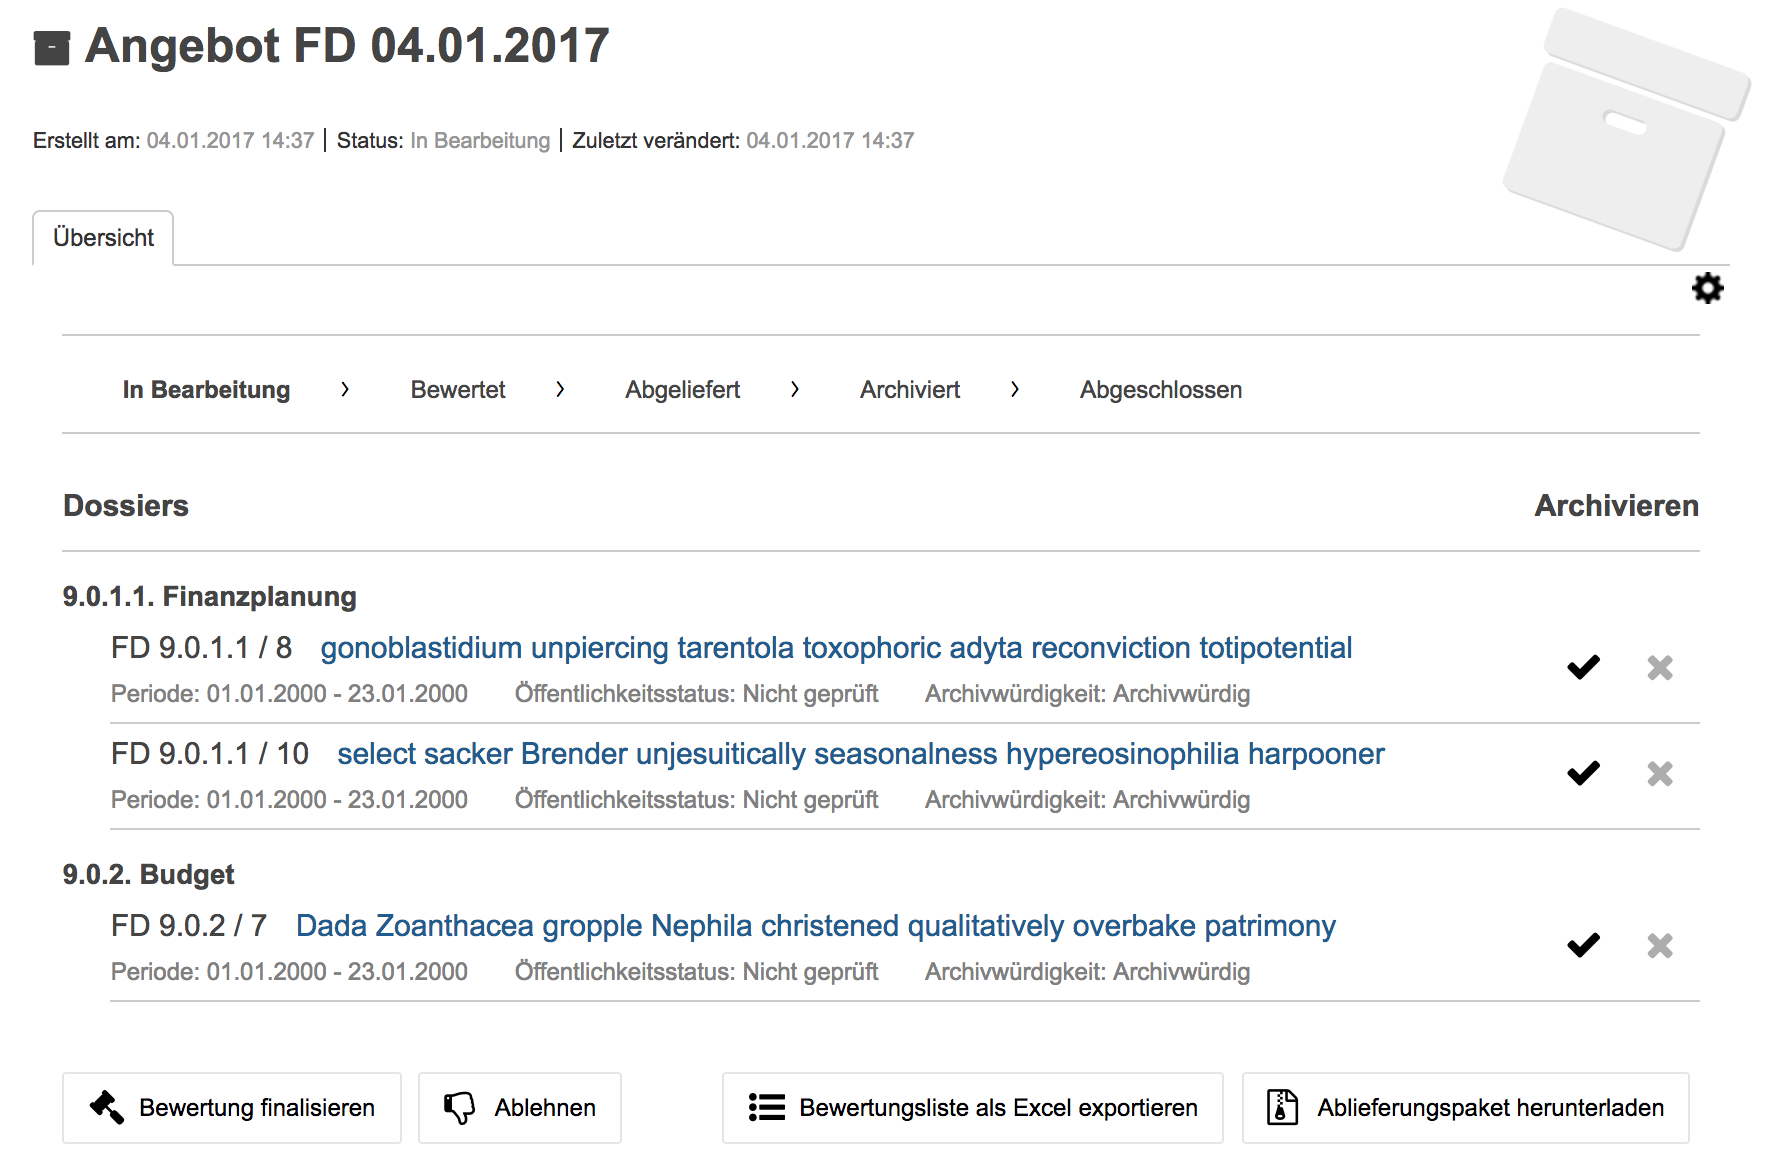
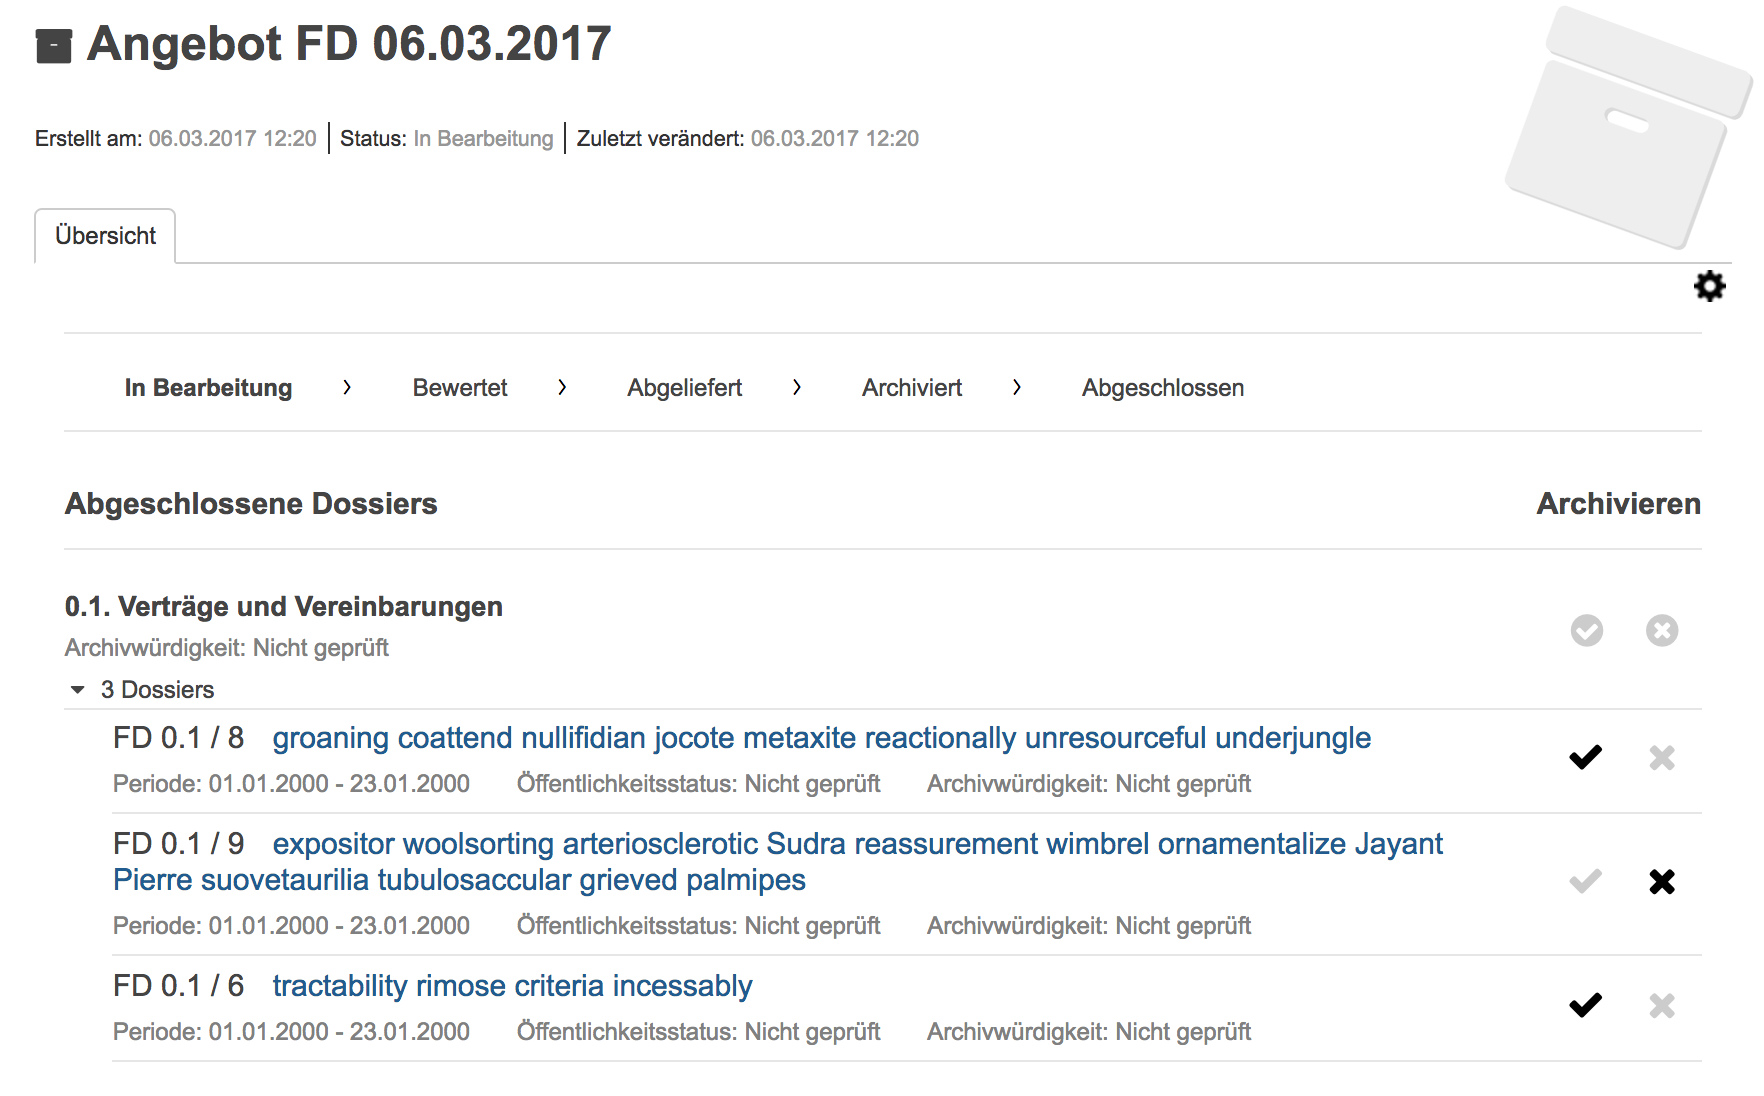
Disposition documentation: Update screenshots and appraisal description.

diff --git a/docs/public/admin-manual/aussonderung.rst b/docs/public/admin-manual/aussonderung.rst
@@ -60,9 +60,13 @@ dabei automatisch ein Vorbewertung anhand des
 Dossier-Metadatums ``Archivwürdigkeit``.
 
 Anschliessend kann die Bewertung von den Records Managern über die
-Angebotsansicht angepasst und vorbereitet werden.
+Angebotsansicht angepasst und vorbereitet werden. Die Bewertung kann sowohl auf Stufe Ordnungsposition für alle enthaltenen Dossiers oder einzeln pro Dossier angepasst werden.
 
 |img-aussonderung-2|
+
+Stornierte Dossiers werden in einer separten Liste aufgeführt. Auch die automatische Vorbewertung anhand des Dossier-Metadatums ``Archivwürdigkeit`` entfällt. Stornierte Dossiers sind immer als nicht archivwürdig vorbewertet.
+
+|img-aussonderung-6|
 
 Je nach Arbeitsweise kann für die endgültige Bewertung das Archiv auf dem
 GEVER Mandanten berechtigt werden um die Bewertung gleich im GEVER vornehmen
@@ -160,5 +164,6 @@ nur der neuen Rolle `Records Manager` zur Verfügung.
 .. |img-aussonderung-3| image:: img/media/img-aussonderung-3.png
 .. |img-aussonderung-4| image:: img/media/img-aussonderung-4.png
 .. |img-aussonderung-5| image:: img/media/img-aussonderung-5.png
+.. |img-aussonderung-6| image:: img/media/img-aussonderung-6.png
 
 .. disqus::
